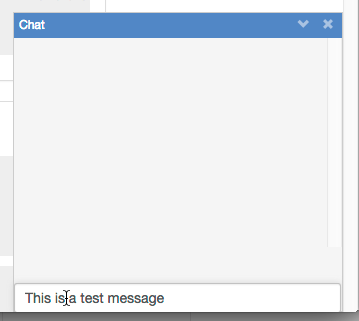
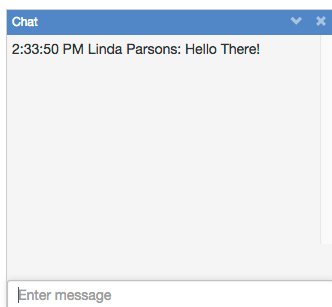
Update docs, increase number of lines in devops buffer

Changed region(s): [[0.0, 0.0, 1.0, 1.0]]

diff --git a/client/dashboard/scripts/directives/logMonitor.directive.js b/client/dashboard/scripts/directives/logMonitor.directive.js
@@ -28,7 +28,7 @@
       var vm = this;
 
       vm.buttonText = 'Turn on';
-      vm.linesMax = 5000;
+      vm.linesMax = 10000;
 
       var formatter = function formatter(message) {
         return message + '\n';

diff --git a/docs/source/using.rst b/docs/source/using.rst
@@ -16,8 +16,10 @@ sub-sections will go through the:
 
 ..
 
-The demo application is not using https, so you won't need to worry about
-certificates when logging in.
+The demo application is not currently using https, so you won't need to worry about
+certificates when logging in. Make sure you are logged out of the dashboard
+(if you are already logged in) and reload the login page if you are already
+on that page (to make sure your client has the latest version).
 
 Mitigation Scenario
 -------------------
@@ -34,13 +36,15 @@ The main dashboard will display.
 ..
 
 
-**Remediations are mitigation activities in the system** where the logged in
-user has IPs that are compromised and need to be remediated.
+**Remediations** are mitigation activities in the system where the logged in
+user (lparsons in the screenshots) has IPs that are compromised and
+need to be remediated.
 Currently the system contains one of these
 "Mitigation scenario" activities which was bootstrapped programmatically.
 
 **Hover over the graph to display data points.** Note the number of mitigated IPs
-at the most recent data point:
+at the most recent data point (the dates may differ than that in the
+screenshot):
 
 .. figure:: demo/remediations1.png
    :width: 100%
@@ -49,9 +53,9 @@ at the most recent data point:
 ..
 
 
-Click **View my IPs needing mitigation** link to display a modal window where the user can
+Click **View my IPs needing mitigation** link to display a modal window where you can
 submit IPs that have been mitigated. Right now the UI for this consists of the modal
-displaying all remaining IPs the user needs to address.
+displaying all remaining IPs you need to address.
 
 .. figure:: demo/view_my_ips.png
    :width: 100%
@@ -126,10 +130,9 @@ System health
 -------------
 
 The status area on the left is mostly static at present. However, a link to open
-the consul UI in a new tab is now present.
+the consul UI in a new tab exists.
 
-Click **Open Consul view** and the Consul UI will open in a new tab with the
-**nodes** tab selected.
+Click **Open Consul view**:
 
 .. figure:: demo/openconsul.png
   :width: 100%
@@ -137,30 +140,27 @@ Click **Open Consul view** and the Consul UI will open in a new tab with the
 
 ..
 
+and the Consul UI will open in a new tab with the
+**NODES** tab selected.
+
 .. figure:: demo/consului.png
   :width: 100%
   :align: center
 
 ..
 
+(You can demonstrate the Consul UI at this point if desired.)
+
 Live log streaming
 ------------------
 
-1. *Live log streams* - The live long monitoring is now a popup panel so as
-   to persist data across page views.
-   That means the buffers won't be cleared if you go to a different section on the
-   site (new page load).
+The live log monitoring is now a popup panel so as
+to persist data across page views.
+That means the buffers won't be cleared if you go to a different section on the
+site (e.g. new page load).
 
-   .. note::
 
-      I've changed the name in the title bar to *Live log streaming*. This is not
-      reflected in the screen shots. I've also changed the navigation bar so there is a menu
-      called **Logging**. The first item in the menu is **Live log streaming**.
-
-   ..
-
-   Click **Logging** in the Navigation bar and select **Live log streaming**.
-   The Live log streaming window anchored to the bottom of the window will display.
+1. Click **Logging** in the Navigation bar and select **Live log streaming**.
 
    .. figure:: demo/logmon1.png
       :width: 100%
@@ -168,19 +168,30 @@ Live log streaming
 
    ..
 
+   The Live log streaming window anchored to the bottom of the browser window will display.
+
+   .. figure:: demo/openstreaming.png
+      :width: 100%
+      :align: center
+
+   ..
+
+
    There are tabs for the log exchanges the server monitors. Each tab has a button to turn on/
    turn off that particular log monitor. The user can clear the buffer using the “Clear” button.
-   The user can hide the window by clicking the minimize button, and then maximize it by
-   clicking the maximize button.  Clicking the close button (X) turns off all monitors and
-   closes the window. The window can also be closed by clicking “Log Monitor” in the Nav bar.
+   The user can hide the window by clicking the minimize button (down arrow in title bar),
+   and then maximize it by
+   clicking the maximize button (up arrow).  Clicking the close button (X) turns off all monitors and
+   closes the window. The window can also be closed by clicking **Logging > Live log streaming**
+   in the Nav bar.
    (This is  a toggle - if the window is active, clicking it closes the window. If the
    window is closed, clicking the button opens the window.)
 
-   The Log Monitors window, like the Chat window, is independent of other page views.
+   The *Live log streaming* window, like the *Chat* window, is independent of other page views.
    So it will remain active even if you go to a different view via a menu or
    navigation button.
 
-2. Click on Devops tab and click button **Turn on Devops**
+2. Click on **Devops** tab and click button **Turn on Devops**
 
    .. figure:: demo/logmon2.png
       :width: 100%
@@ -199,7 +210,13 @@ Live log streaming
 
 
 4. You could start an activity that reports to devops via another program, or wait a
-   couple minutes and you’ll probably get info on Health
+   couple minutes and you’ll probably get info on Health:
+
+   .. figure:: demo/healthlog1.png
+      :width: 100%
+      :align: center
+
+   ..
 
 
 5. Click the minimize button:
@@ -233,7 +250,7 @@ Live log streaming
    users will display behind the streaming window. Minimize the streaming log display
    to view the users:
 
-   .. figure:: demo/minimize.png
+   .. figure:: demo/minimize2.png
       :width: 100%
       :align: center
 
@@ -248,8 +265,30 @@ Live log streaming
 Chat
 ----
 
-1. Click the chat icon in the Nav bar to open the chat window. Unless you’re
-   chatting with someone else who is logged in, there isn’t much to see (you can send messages to yourself).
+1. Click the chat icon in the Nav bar to open the chat window:
+
+   .. figure:: demo/clickchaticon.png
+      :width: 100%
+      :align: center
+
+   ..
+
+   Unless you’re
+   chatting with someone else who is logged in, there isn’t much to see (you can send messages to yourself however). Enter a message in the message area of the chat box and press **Enter** key.
+
+   .. figure:: demo/chat1.png
+      :width: 50%
+      :align: center
+
+   ..
+
+   The message you sent will appear in your chat window:
+
+   .. figure:: demo/chat2.png
+      :width: 50%
+      :align: center
+
+   ..
 
 ..
 
@@ -268,7 +307,7 @@ User display and trust groups
    The system remembers your last selection. If you have never selected a trust group,
    it will choose the first one in your list of trust groups when you first log in.
 
-2. Display your profile information by selection ``dittrich > Profile`` in the nav bar.
+2. Display your profile information by selecting ``dittrich > Profile`` in the nav bar.
    Note that the trust group info now displays in the profile.
 
    .. figure:: demo/dimstrustgroupinprofile.png
